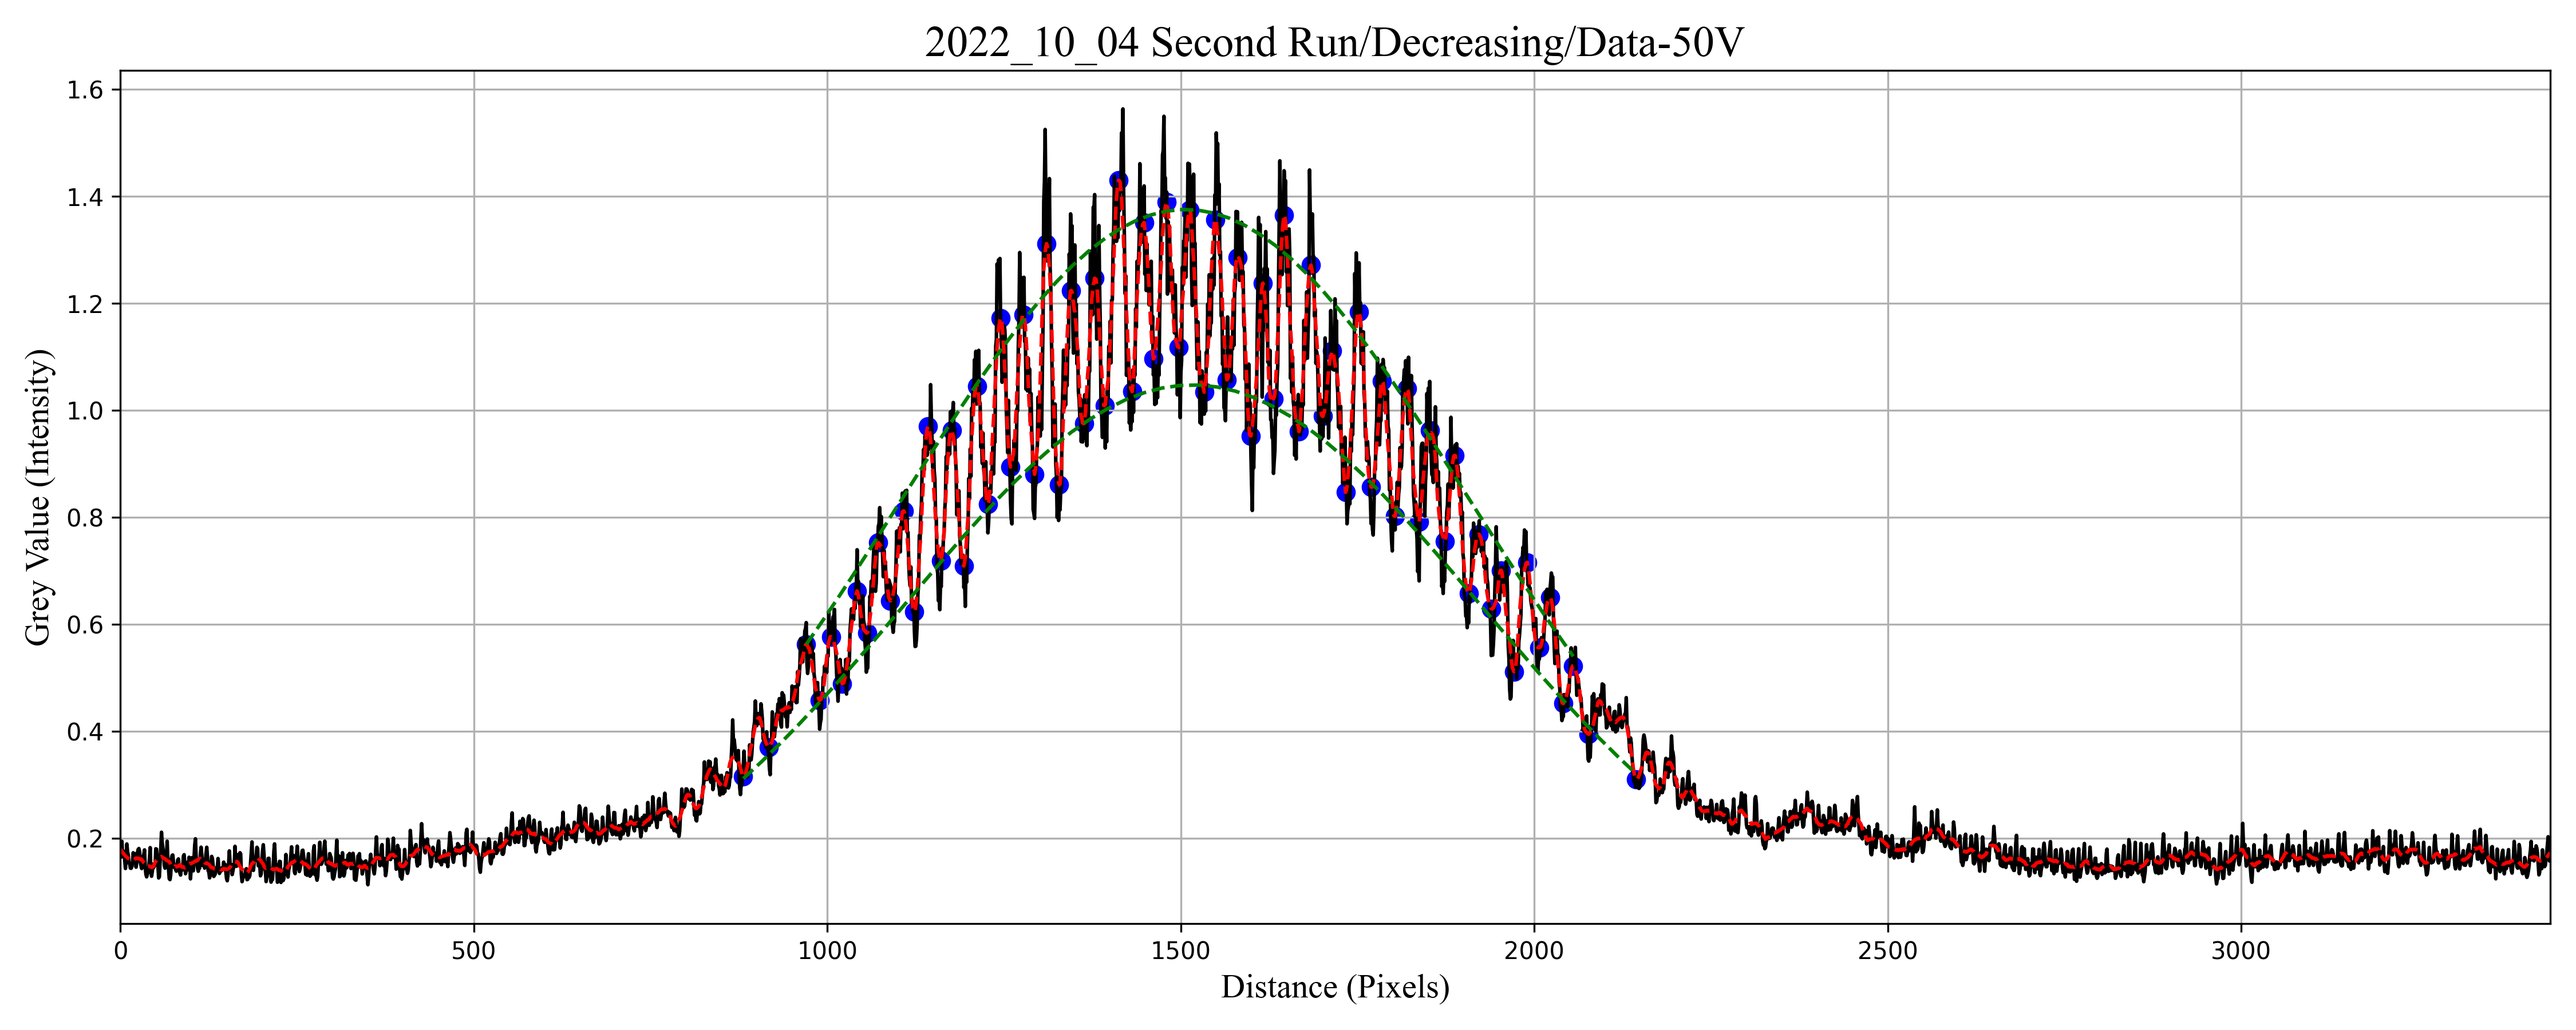
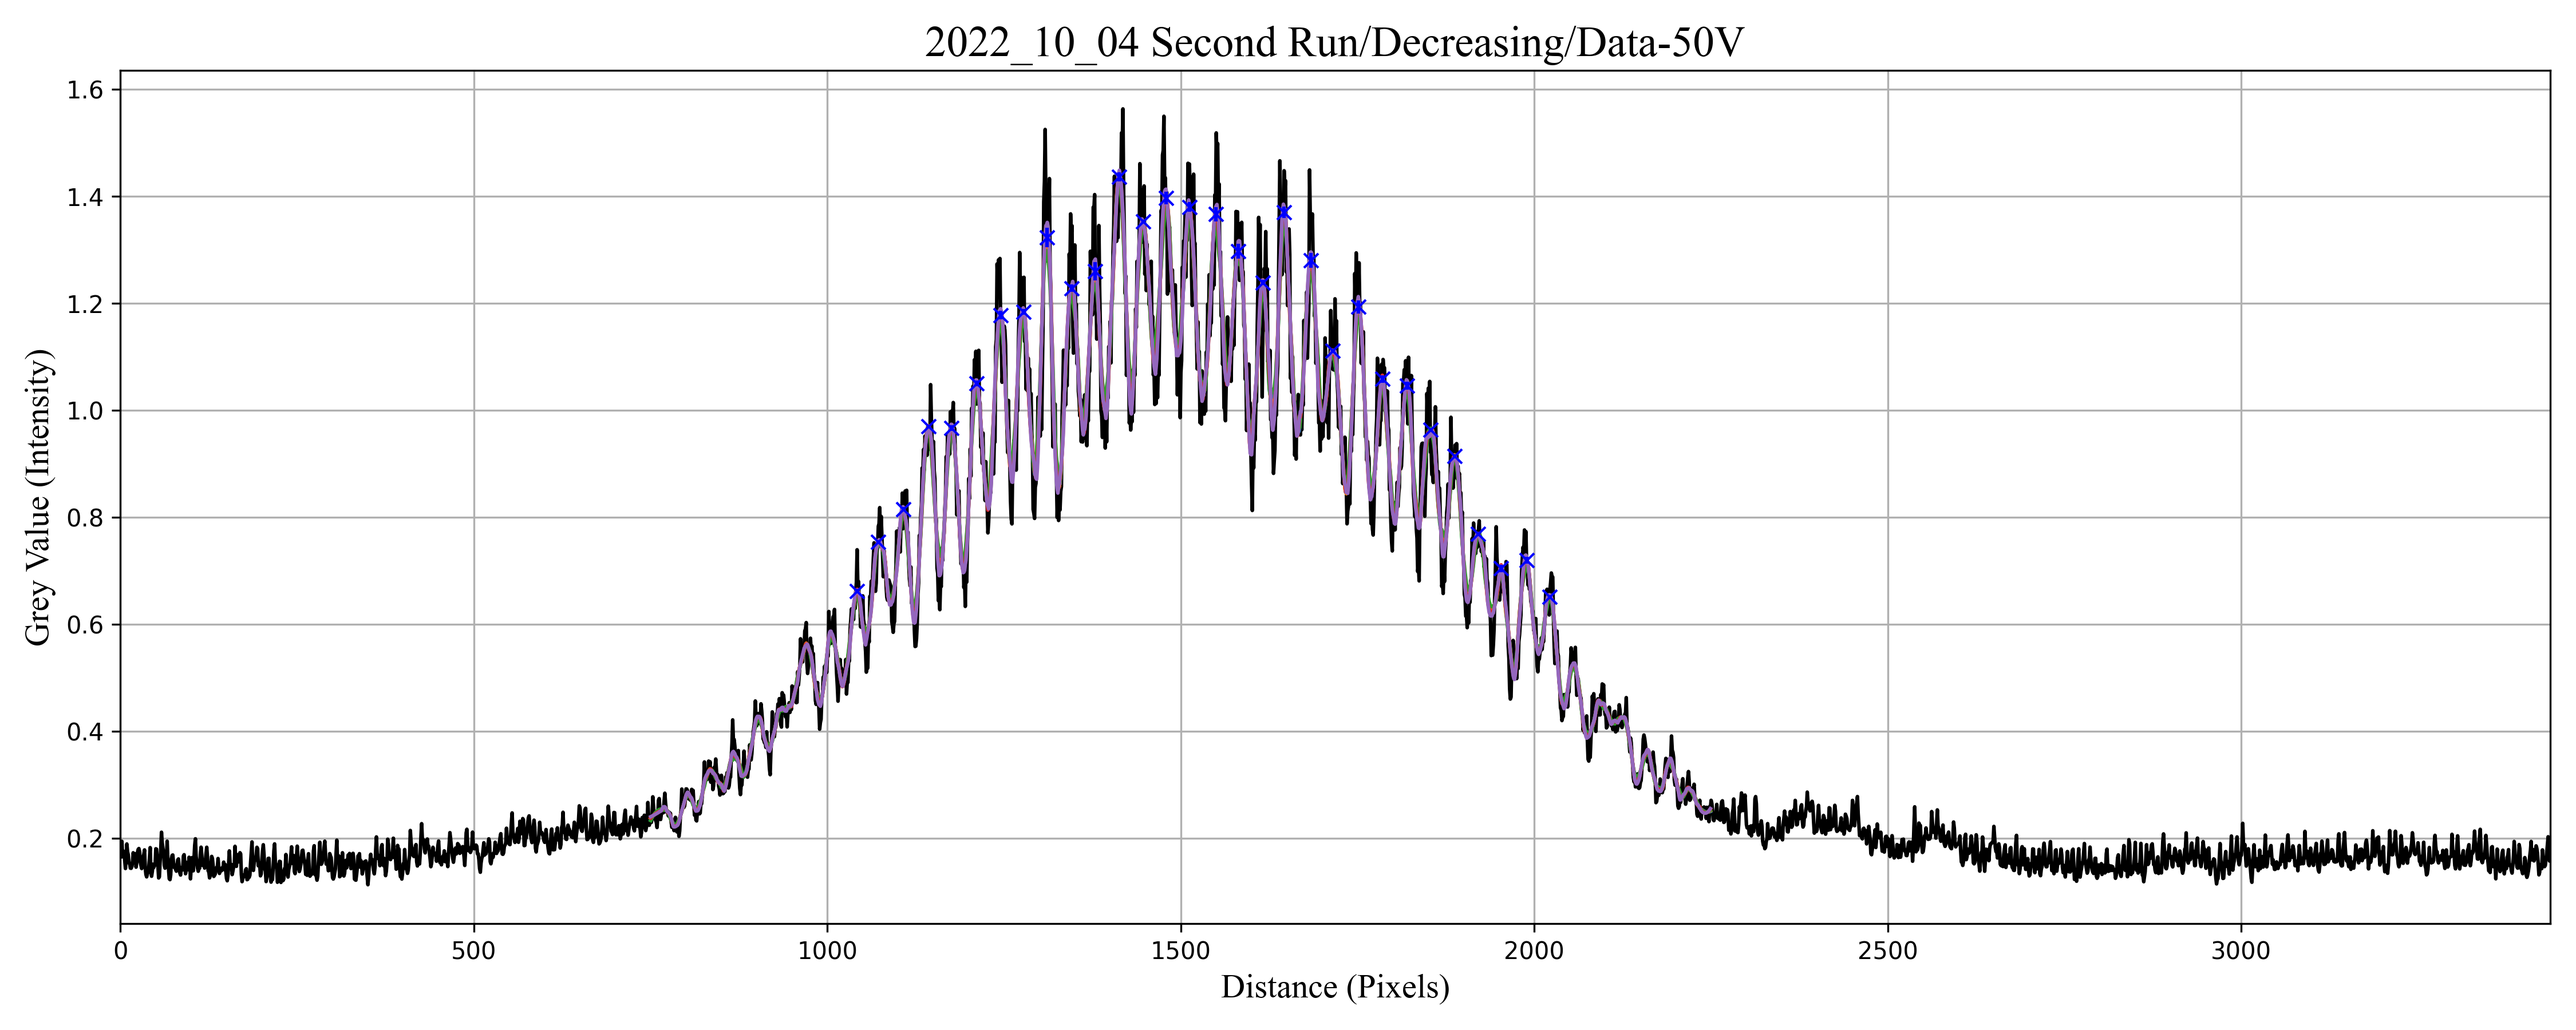
a lot lot lot lot fo work

diff --git a/TVHolography.py b/TVHolography.py
@@ -13,8 +13,7 @@ from Parameters import SAVGOL_FILTER_PARAMETERS_1,\
         SAVGOL_FILTER_PARAMETERS_2, PEAK_PROMINENCE
 from Functions import read_data, find_peaks,\
         filter_peaks, find_linear_parameters,\
-        fit_gaussian, optimize_savgol
-from scipy.optimize import curve_fit
+        fit_gaussian, optimize_savgol, red_chi_square
 
 FILENAME_1 = "2022_10_04 Second Run/Rising/Data/"
 FILENAME_2 = "2022_10_04 Second Run/Decreasing/Data/"
@@ -24,9 +23,18 @@ SAVE_FOLDER_AVERAGES = "2022_10_04 Second Run/Comparison/"
 X_VARIABLE = "Voltage"
 Y_VARIABLE = 'Grey Value (Intensity)'
 
+def Extract(lst, i):
+    result = []
+    try:
+        for item in lst:
+            result.append(item[i])
+        return result
+    except IndexError:
+        return None
+
 def draw_plot(title, data, savgol_parameter, filename,
-              save_folder, peak_prominence):
-    print("{0} V with default savgol param: {1}".format(title,
+              save_folder, peak_prominence, direction):
+    print("{0} V with default savgol param: {1}".format(title + direction,
                                                         savgol_parameter))
 
     fig, axs = plt.subplots(1, 1)
@@ -39,29 +47,57 @@ def draw_plot(title, data, savgol_parameter, filename,
                      fontfamily='times new roman')
 
     axs.plot(data[:, 0], data[:, 1], 'k')
-    peaks, filtered_data = find_peaks(data, savgol_parameter, peak_prominence)
-    flipped_data = copy.deepcopy(data)
-    flipped_data[:, 1] = -flipped_data[:, 1] 
-    troughs, _ = find_peaks(flipped_data, savgol_parameter, peak_prominence)
-    filtered_peaks = filter_peaks(peaks, filtered_data, 0.5)
-    filtered_troughs = filter_peaks(troughs, filtered_data, 0.3)
+    
 
-    axs.plot(data[:, 0], filtered_data, 'r--')
+    best_savgol_parameters = optimize_savgol(data[750:2250], savgol_parameter, peak_prominence, axs)
+    print(best_savgol_parameters)
 
-    axs.scatter(filtered_peaks, filtered_data[filtered_peaks], c='b', s=50)
-    axs.scatter(filtered_troughs, filtered_data[filtered_troughs], c='b', s=50)
+    total_x_peak_data = []
+    total_y_peak_data = []
 
-    if len(filtered_peaks) > 3 or len(filtered_troughs) > 3:
-        fit_gaussian(filtered_peaks, filtered_data[filtered_peaks], axs)
-        fit_gaussian(filtered_troughs, filtered_data[filtered_troughs], axs)
+    for sav_param in best_savgol_parameters:
+        peaks, filtered_data = find_peaks(data, sav_param, peak_prominence)
+        # flipped_data = copy.deepcopy(data)
+        # flipped_data[:, 1] = -flipped_data[:, 1] 
+        # troughs, _ = find_peaks(flipped_data, sav_param, peak_prominence)
+        filtered_peaks = filter_peaks(peaks, filtered_data, 0.6)
+        total_x_peak_data.append(filtered_peaks)
+        total_y_peak_data.append(filtered_data[filtered_peaks])
+        # filtered_troughs = filter_peaks(troughs, filtered_data, 0.3)
+        # axs.plot(filtered_peaks, filtered_data[filtered_peaks], '.')
+    
+    peak_x_averages = []
+    peak_x_sigmas = []
+    peak_x_range = []
+    peak_y_averages = []
+    peak_y_sigmas = []
+    peak_y_range = []
 
-    peak_diff = np.diff(filtered_peaks)
+    for peak_index in range(0, len(total_x_peak_data[0])):
+        extracted = Extract(total_x_peak_data, peak_index)
+        if extracted != None:
+            peak_x_averages.append(np.mean(extracted))
+            peak_x_sigmas.append(np.std(extracted))
+            peak_x_range.append((np.max(extracted) - np.min(extracted)) / 2)
+    for peak_index in range(0, len(total_y_peak_data[0])):
+        extracted = Extract(total_y_peak_data, peak_index)
+        if extracted != None:
+            peak_y_averages.append(np.mean(extracted))
+            peak_y_sigmas.append(np.std(extracted))
+            peak_y_range.append((np.max(extracted) - np.min(extracted)) / 2)
 
-    print(optimize_savgol(data, savgol_parameter, peak_prominence, axs))
+    axs.errorbar(peak_x_averages, peak_y_averages, xerr = peak_x_range, yerr=peak_y_sigmas, fmt='bx')
 
-    # print(peak_diff)
-    # print(np.average(peak_diff))
-    # print(np.std(peak_diff) / np.sqrt(len(peak_diff)))
+    peak_diffs = np.diff(peak_x_averages)
+
+    # axs.scatter(filtered_peaks, filtered_data[filtered_peaks], c='b', s=50)
+    # axs.scatter(filtered_troughs, filtered_data[filtered_troughs], c='b', s=50)
+
+    # if len(filtered_peaks) > 3 or len(filtered_troughs) > 3:
+    #     fit_gaussian(filtered_peaks, filtered_data[filtered_peaks], axs)
+    #     fit_gaussian(filtered_troughs, filtered_data[filtered_troughs], axs)
+
+    # analysis with different fringe spacings
 
     axs.grid()
 
@@ -72,9 +108,9 @@ def draw_plot(title, data, savgol_parameter, filename,
     plt.close()
     # plt.show()
 
-    return np.array((int(title), 1 / np.average(peak_diff),
-                    (1 / (np.average(peak_diff) ** 2))
-                    * np.std(peak_diff) / np.sqrt(len(peak_diff))))
+    return np.array((int(title), 1 / np.average(peak_diffs),
+                    (1 / (np.average(peak_diffs) ** 2))
+                    * np.std(peak_diffs) / np.sqrt(len(peak_diffs))))
 
 
 def plot_averages(data_1, data_2, save_folder):
@@ -116,6 +152,19 @@ def plot_averages(data_1, data_2, save_folder):
                     +" + {0:.3g} $\pm$ {1:.1g}"\
                     .format(c_2, sigma_c_2))
 
+    rising_data = data_1[:, 1][2:-2]
+    decreasing_data = data_2[:, 1][2:-2]
+    reduced_chi_sqaure_rising = red_chi_square(rising_data,
+                                               m_1*np.linspace(np.min(rising_data),
+                                               np.max(rising_data),
+                                               num=len(rising_data)) + c_1)
+    reduced_chi_sqaure_decreasing = red_chi_square(decreasing_data,
+                                               m_2*np.linspace(np.min(decreasing_data),
+                                               np.max(decreasing_data),
+                                               num=len(decreasing_data)) + c_2)
+    print("The reduced chi-sqaure for rising: {0:.3g}".format(reduced_chi_sqaure_rising))
+    print("The reduced chi-sqaure for decreasing: {0:.3g}".format(reduced_chi_sqaure_decreasing))
+
     axs.grid()
     plt.legend()
 
@@ -137,7 +186,8 @@ def main():
             averages_1 = np.vstack((averages_1, draw_plot(data[0], data[1],
                                     SAVGOL_FILTER_PARAMETERS_1[data[0]],
                                     FILENAME_1,
-                                    SAVE_FOLDER_1, PEAK_PROMINENCE["Rising"])))
+                                    SAVE_FOLDER_1, PEAK_PROMINENCE["Rising"],
+                                    "Rising")))
         else:
             print("No (valid) files provided, ending program")
 
@@ -146,7 +196,8 @@ def main():
             averages_2 = np.vstack((averages_2, draw_plot(data[0], data[1],
                                     SAVGOL_FILTER_PARAMETERS_2[data[0]],
                                     FILENAME_2, SAVE_FOLDER_2,
-                                    PEAK_PROMINENCE["Decreasing"])))
+                                    PEAK_PROMINENCE["Decreasing"],
+                                    "Decreasing")))
         else:
             print("No (valid) files provided, ending program")
 

diff --git a/Functions.py b/Functions.py
@@ -81,6 +81,60 @@ def fit_gaussian(x_data, y_data, axis):
               gaussian_curve(np.linspace(np.min(x_data), np.max(x_data)), *param), 'g--')
     return
 
+
 def gaussian_curve(x_data, A, sigma, mu):
     exponent = - (x_data - mu) ** 2 / (2 * sigma ** 2)
     return A * np.exp(exponent)
+
+
+
+def red_chi_square(data, smoothed_y):
+    chi_square_total = np.sum(((data - smoothed_y)**2) / data)
+
+    return chi_square_total / len(data)
+
+
+def find_closest(dataset, target, amount=1):
+    diff_dict = {}
+    diff = np.abs(target - dataset)
+    min_val_pos = np.array([])
+    
+    for index, val in enumerate(diff):
+        diff_dict[val] = index
+        
+    diff_sort = dict(sorted(diff_dict.items()))
+    
+    for item in diff_sort:
+        min_val_pos = np.append(min_val_pos, diff_sort[item])
+        
+    return (np.take(dataset, min_val_pos[:amount].astype(int)), 
+            min_val_pos[:amount])
+
+
+def find_nearest(array, value):
+    array = np.asarray(array)
+    idx = (np.abs(array - value)).argmin()
+    return array[idx]
+    
+
+def optimize_savgol(data, savgol_0, peak_prominence, axs):
+    chi_lis = np.array([])
+    #abs_list = np.array([])
+    range_values = range(5, 351, 2)
+    for svg in range_values:
+        peaks, w = find_peaks(data, svg, peak_prominence)
+        chi_lis = np.append(chi_lis, red_chi_square(data[:, 1], w))
+        # abs_list = np.append(abs_list, np.sum(np.abs(data[:, 1] - w)))
+        # axs.plot(data[:, 0], w)
+
+
+    # print(chi_lis)
+    # print(abs_list)
+    closest, closest_index = find_closest(chi_lis, chi_lis[np.where(range_values==find_nearest(range_values, savgol_0))], 5)
+    best_savgol = np.take(range_values, closest_index.astype(int))
+
+    for savgol_param in best_savgol:
+        best_data = savgol_filter(data[:, 1], savgol_param, 2)
+        axs.plot(data[:, 0], best_data)
+
+    return best_savgol
